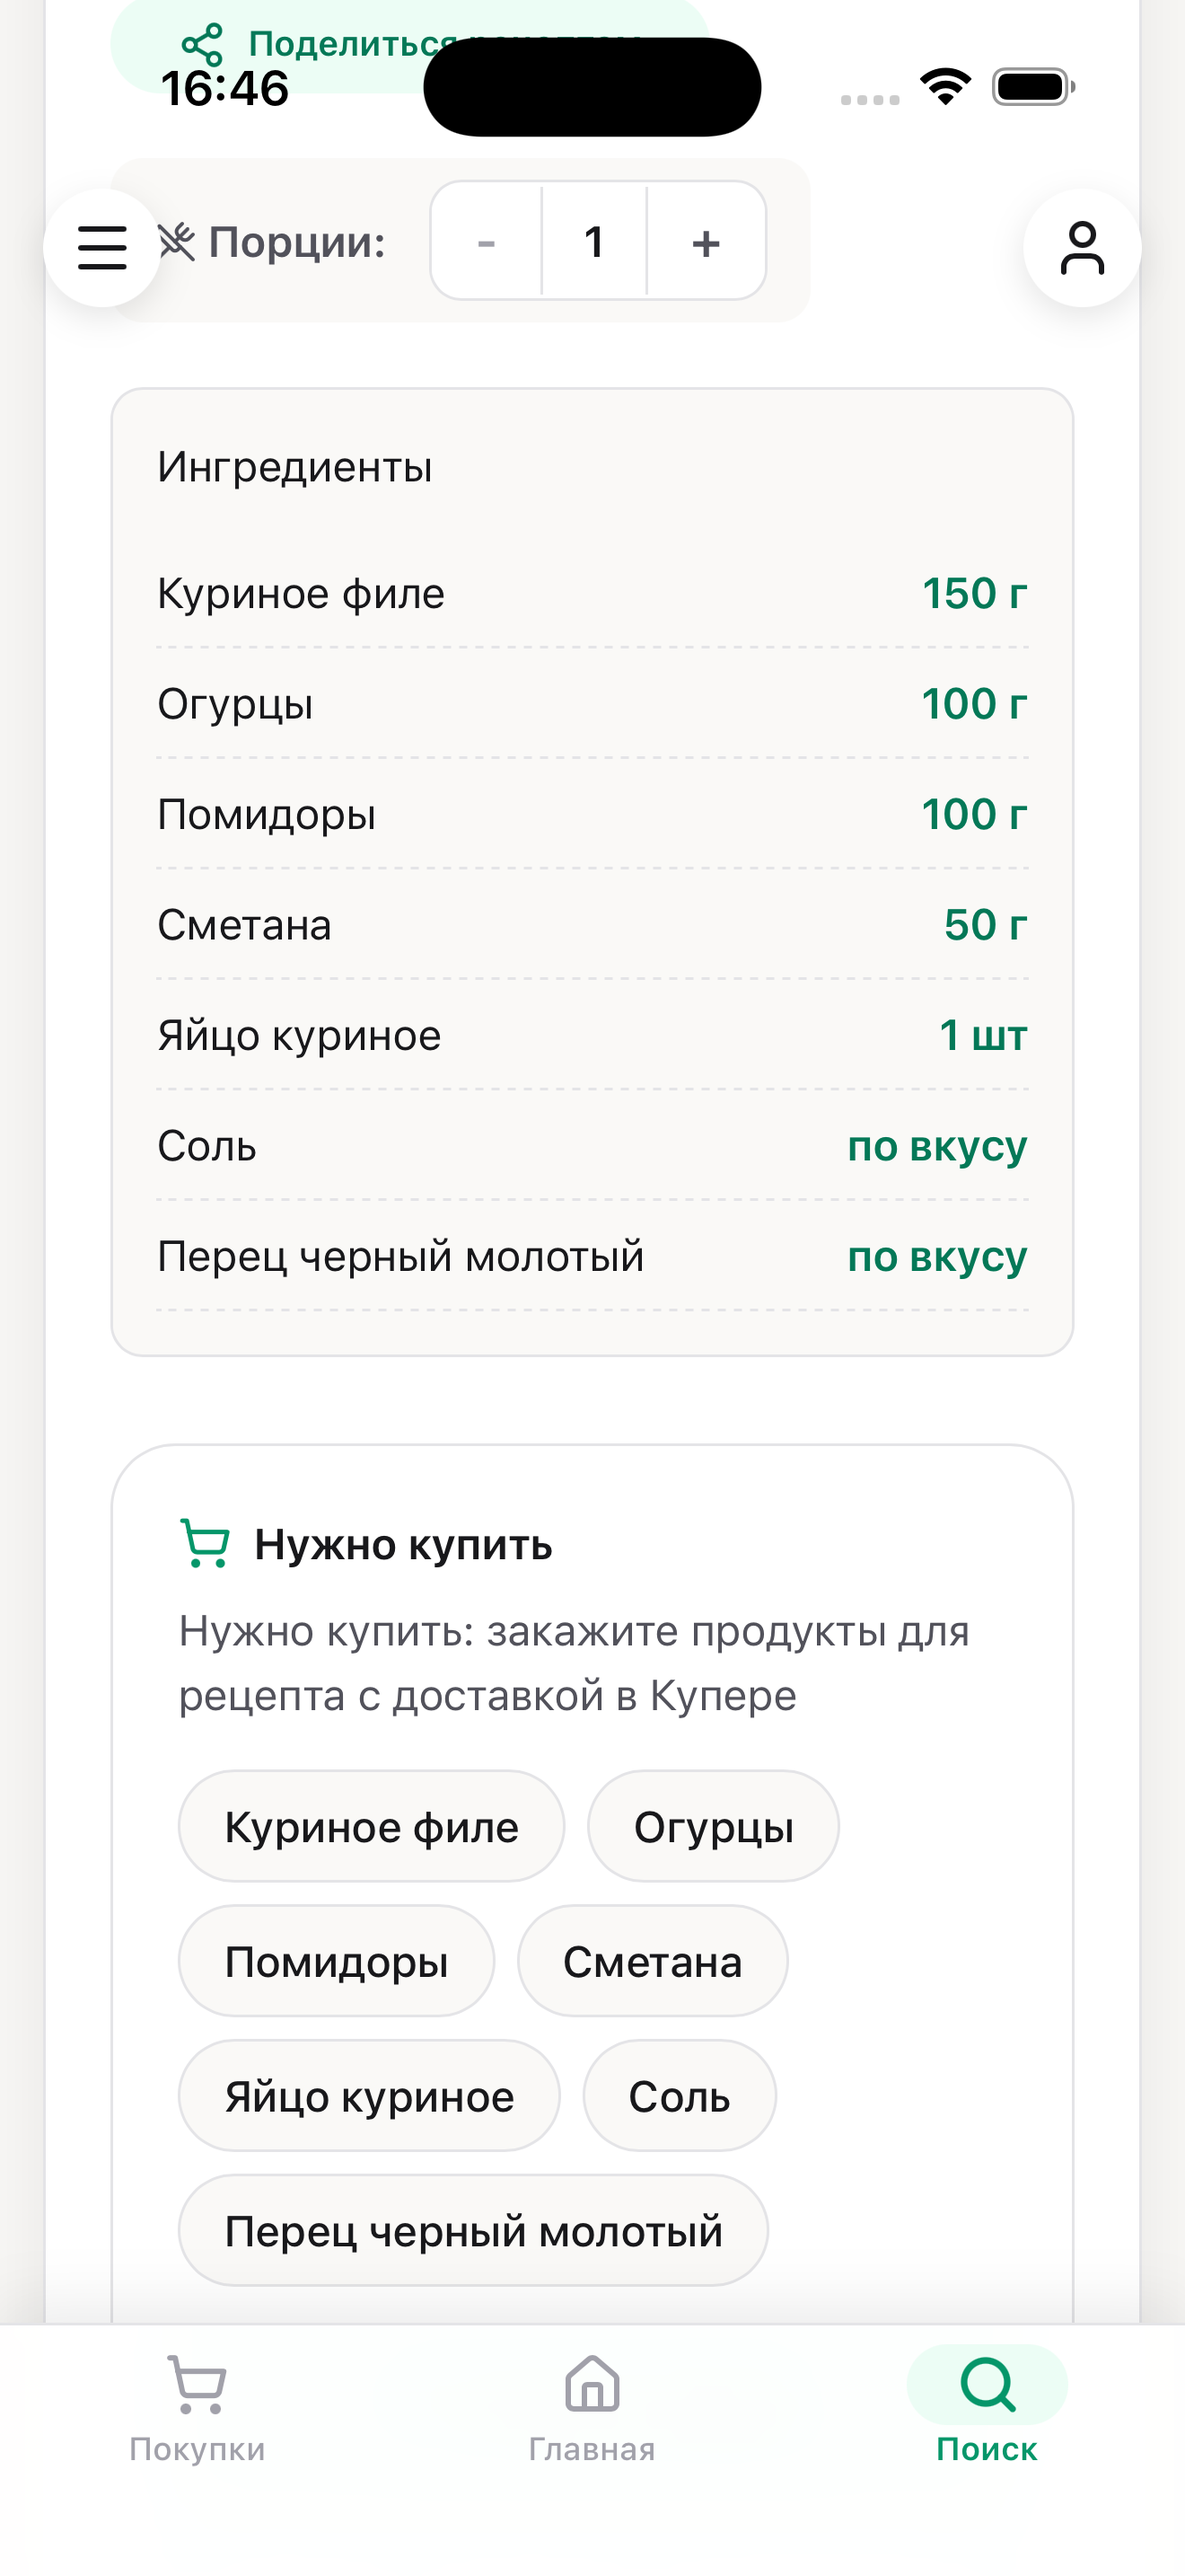
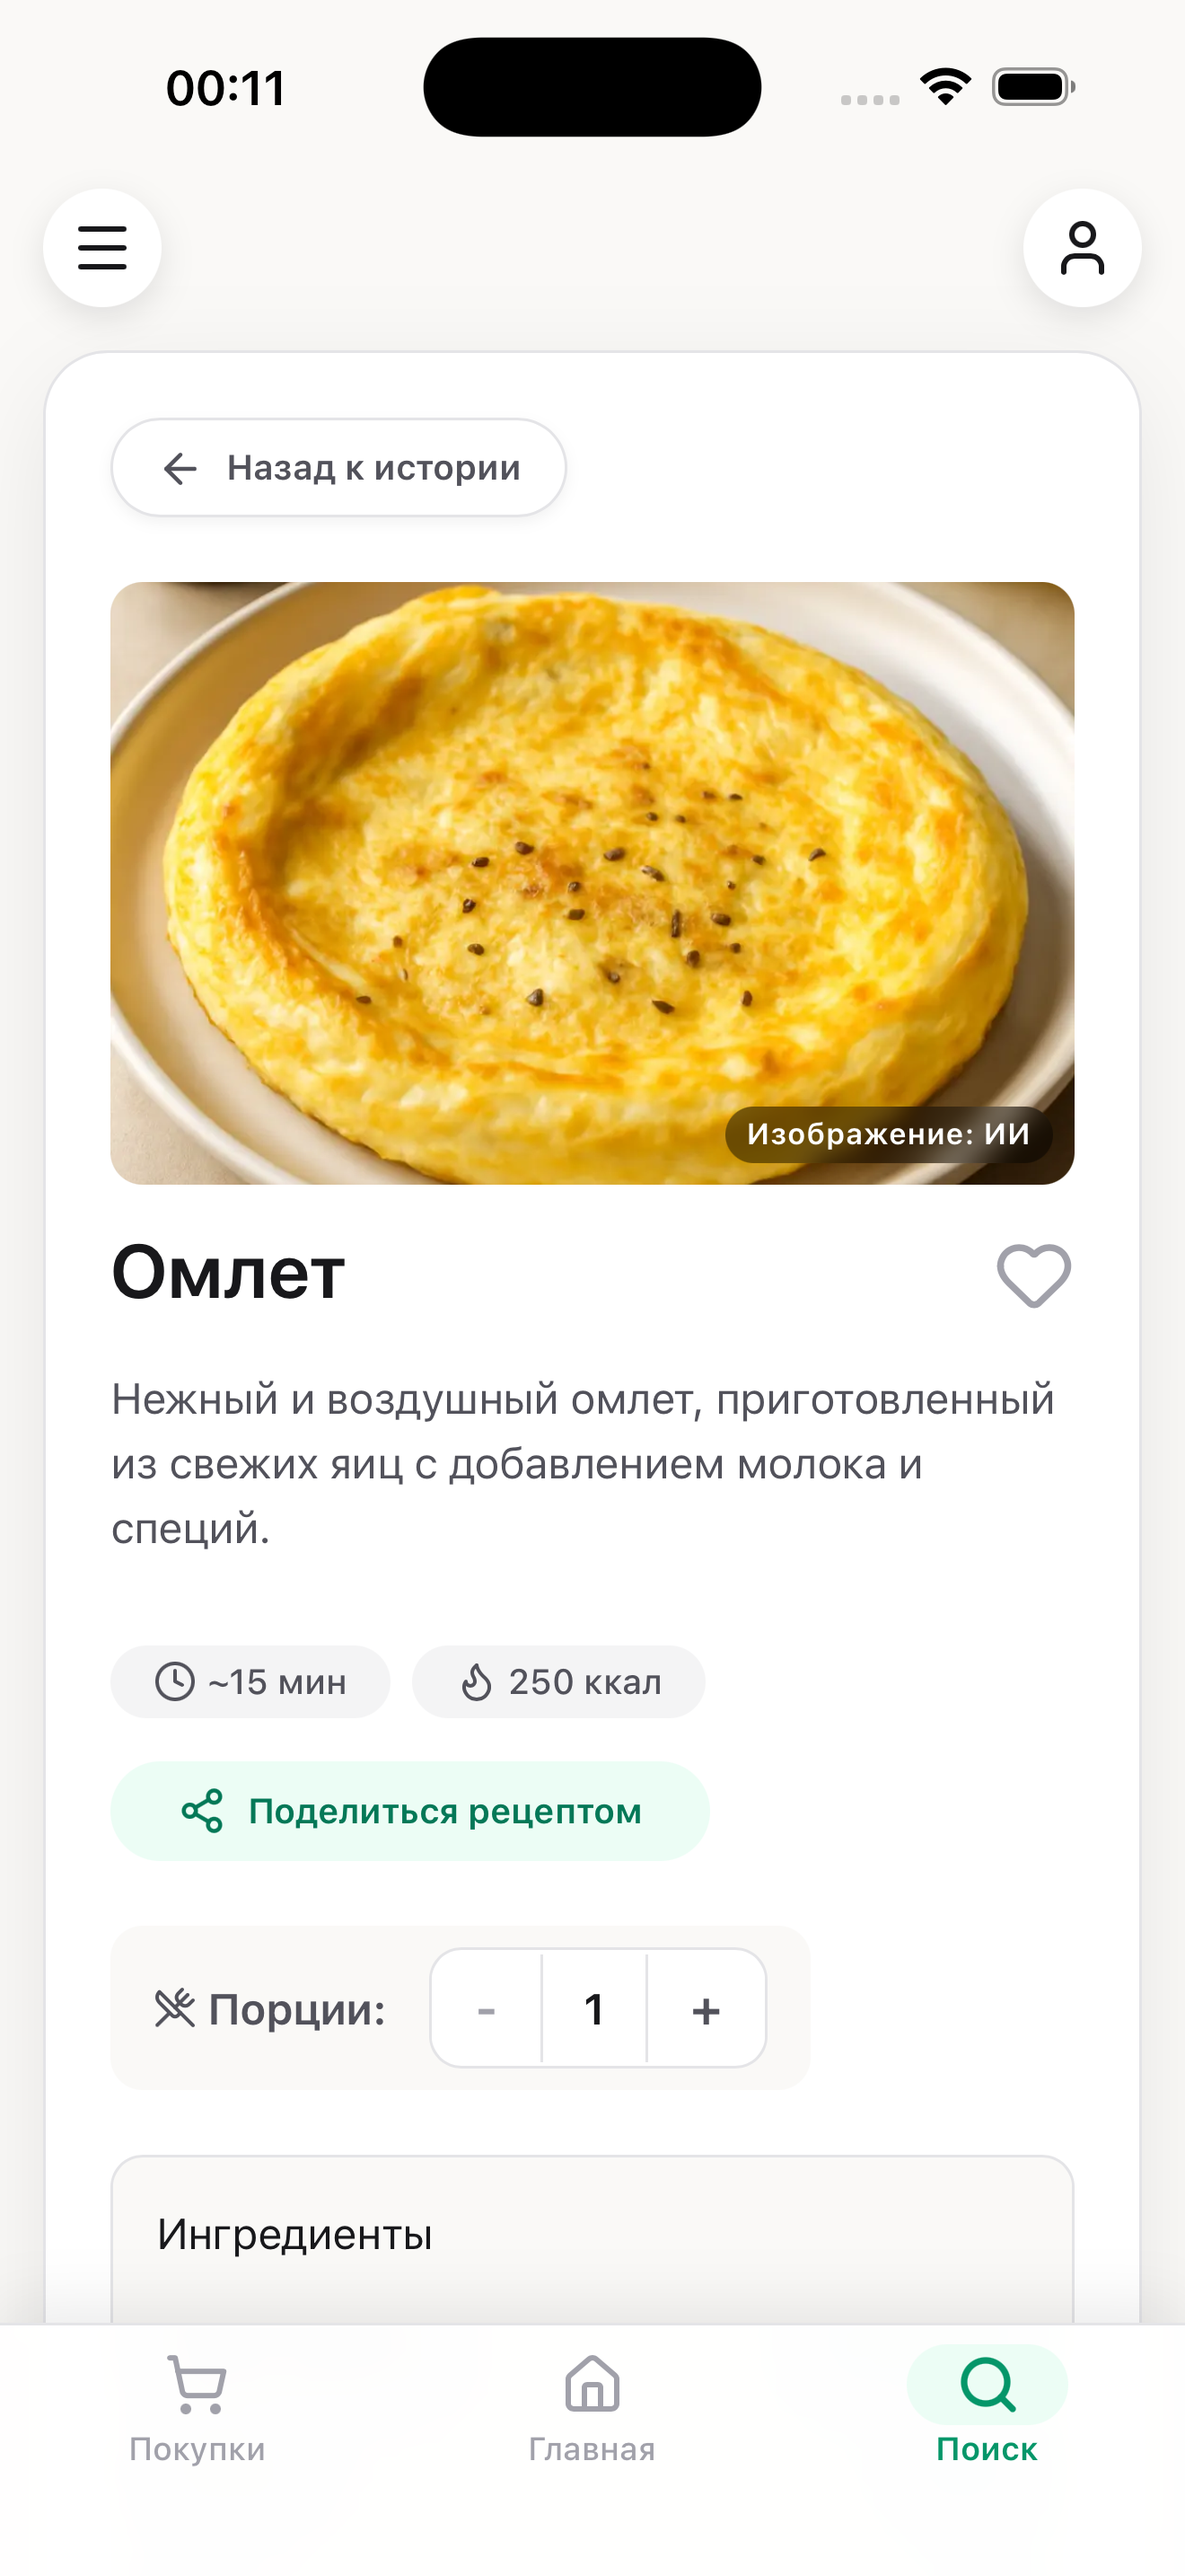
fix(appstore): сборка под iPhone, рейтинг 12+, App Privacy и правки текстов
Метаданные и настройки сборки по разведке ревью App Store.

1. TARGETED_DEVICE_FAMILY = 1 в обеих конфигурациях (Debug и Release):
   приложение уходит в App Store как iPhone-only. Заодно убран
   UISupportedInterfaceOrientations~ipad — ключ описывал ориентации для
   платформы, которую мы больше не поддерживаем. На iPhone ориентация как и
   была: только portrait. Проверено на собранном .app: UIDeviceFamily = 1,
   ориентация одна.

2. Из описания и What's New убраны голосовой ввод и голосовые команды: в
   нативном iOS их нет (PR fix/appstore-review-code, пункт 5), а обещать в
   карточке функцию, которой в сборке нет, — прямой повод для отказа.
   Из App Review Notes убрано «Определение сети (Network)»: отдельного
   разрешения на это нет, формулировка только рождала вопросы. Офлайн-экран
   описан как был.

3. Возрастной рейтинг 12+ с полной анкетой и обоснованием каждого ответа.
   Поднимает рейтинг пользовательский контент (лента сообщества), второй
   фактор — реклама партнёра. Ответы про алкоголь — «Infrequent/Mild»
   честно: рецепты генерирует ИИ, вино в ингредиентах встречается.

4. Раздел App Privacy (nutrition label) — ответы по факту кода, а не «на
   всякий случай»: имя, идентификаторы (аккаунт, гостевая cookie, счётчик
   Метрики), фото, контент, аналитика с Вебвизором, поисковые запросы,
   диагностика к обращениям в поддержку. Отдельно перечислено, чего НЕ
   собираем (email, телефон, геолокация, IDFA) и почему «Data Not Used to
   Track You».
[…]

diff --git a/app/privacy/page.tsx b/app/privacy/page.tsx
@@ -10,7 +10,7 @@ export const metadata: Metadata = {
 
 export default function PrivacyPage() {
   return (
-    <DocPage title="Политика конфиденциальности" updated="4 сентября 2026">
+    <DocPage title="Политика конфиденциальности" updated="5 сентября 2026">
       <p>
         Мы стараемся собирать как можно меньше данных. Ниже — честно и простыми
         словами о том, что и зачем хранит SmartCook.
@@ -80,9 +80,32 @@ export default function PrivacyPage() {
 
       <h2>Cookie и аналитика</h2>
       <p>
-        Мы используем технические механизмы браузера (локальное хранилище) для
-        работы сервиса и обезличенную аналитику посещаемости, чтобы понимать, как
-        улучшать продукт.
+        Чтобы сервис работал, мы используем локальное хранилище браузера: в нём
+        живут ваши списки покупок, настройки и подсказки, которые вы уже
+        закрыли. Это не отправляется никуда — данные остаются на вашем
+        устройстве.
+      </p>
+      <p>
+        Если вы лайкаете или жалуетесь на публикацию <strong>без входа в
+        аккаунт</strong>, мы записываем в служебную cookie (<code>sc_guest</code>)
+        случайный номер. Он нужен ровно для одного: понять, что лайк или жалоба
+        уже от вас, и не дать накрутить их перебором. По этому номеру нельзя
+        узнать, кто вы.
+      </p>
+      <p>
+        Посещаемость мы смотрим в <strong>Яндекс.Метрике</strong> и{" "}
+        <strong>Vercel Analytics</strong>: какие экраны открывают, куда нажимают,
+        где бросают начатое. В Метрике включён <strong>Вебвизор</strong> — он
+        записывает действия на странице (движения курсора, прокрутку, нажатия),
+        чтобы мы могли увидеть, где именно интерфейс мешает. Записывается работа
+        с сайтом, а не вы: ни имени, ни пароля, ни содержимого ваших рецептов в
+        эту статистику не попадает.
+      </p>
+      <p>
+        Рекламных сетей и рекламных идентификаторов у нас нет. Мы не строим
+        профиль для показа вам рекламы и не передаём данные брокерам. Партнёрская
+        ссылка на доставку в карточке рецепта — обычная ссылка: переходя по ней,
+        вы попадаете на сайт партнёра, и дальше действуют его правила.
       </p>
     </DocPage>
   );

diff --git a/app/globals.css b/app/globals.css
@@ -1235,6 +1235,14 @@ body {
 .doc-body li { margin-bottom: var(--space-1); }
 .doc-body a { color: var(--color-accent-hover); text-decoration: underline; }
 .doc-body strong { color: var(--color-text); font-weight: var(--font-weight-semibold); }
+/* Технические имена в тексте документов (имя cookie и т.п.). */
+.doc-body code {
+  font-size: 0.92em;
+  padding: 1px 5px;
+  border-radius: 6px;
+  background: var(--color-bg-subtle);
+  color: var(--color-text);
+}
 
 /* АНИМАЦИИ */
 @keyframes fadeIn { from { opacity: 0; transform: translateY(10px); } to { opacity: 1; transform: translateY(0); } }
